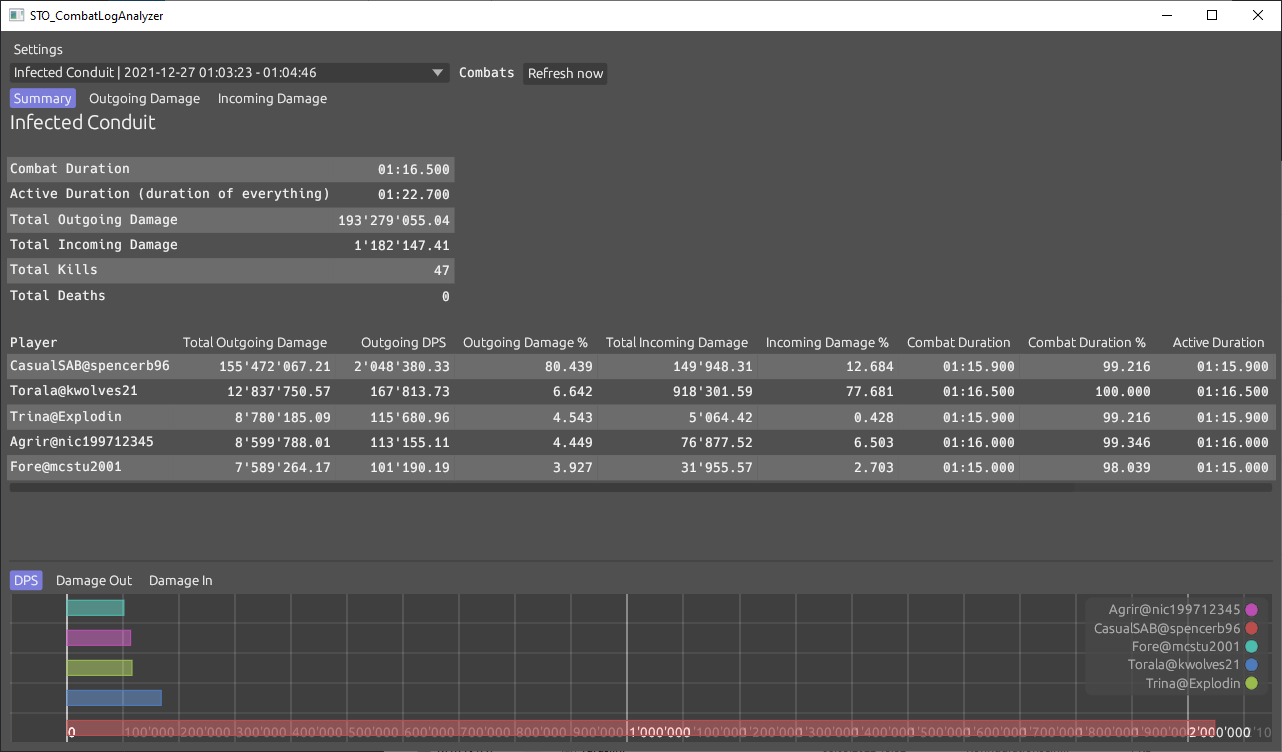
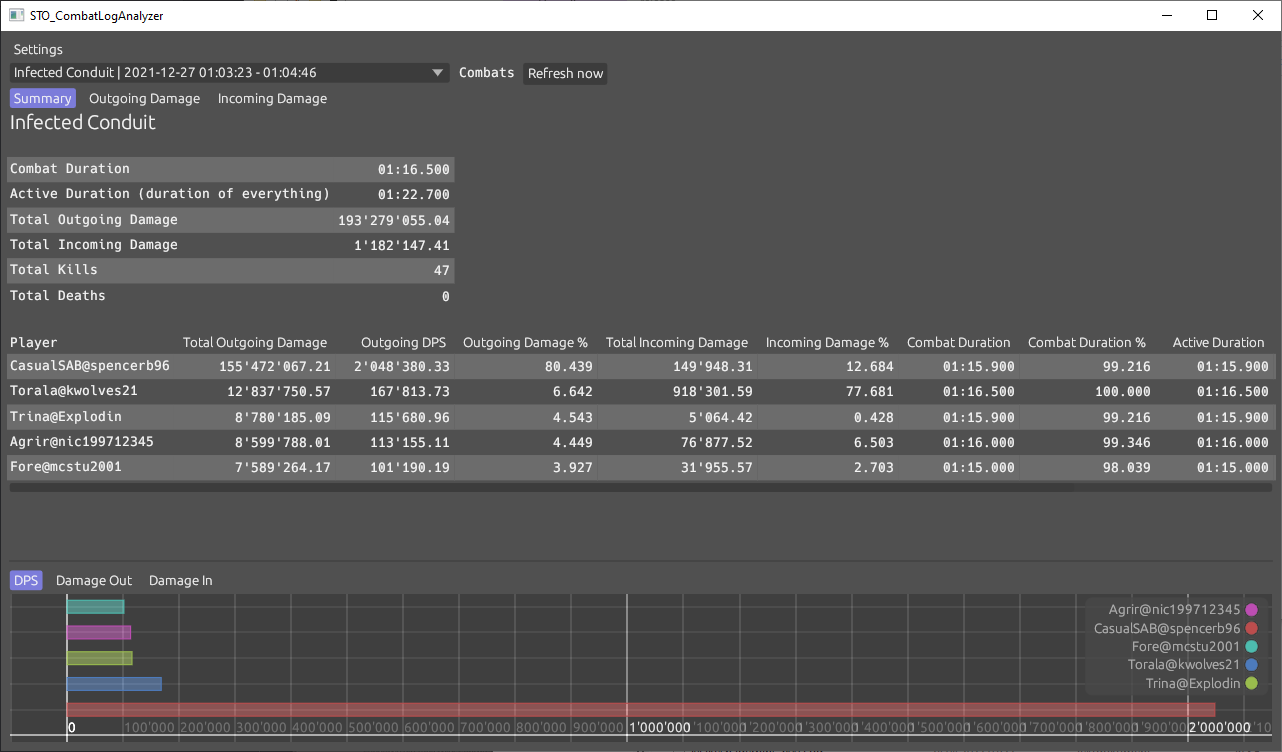
move the bars in the summary tab up a bit to make it less likely that it intersects with the axis numbers

Changed region(s): [[0.0312, 0.8258, 0.9984, 0.9787], [0.9984, 0.0, 1.0, 0.2141]]

diff --git a/src/app/main_tabs/diagrams/summary_chart.rs b/src/app/main_tabs/diagrams/summary_chart.rs
@@ -21,7 +21,7 @@ impl SummaryChart {
         players.sort_unstable_by(|p1, p2| p1.value.total_cmp(&p2.value).reverse());
 
         players.iter_mut().enumerate().for_each(|(i, p)| {
-            p.argument = i as f64 + 0.5;
+            p.argument = i as f64 + 1.0;
         });
 
         Self {
@@ -36,6 +36,7 @@ impl SummaryChart {
             .x_axis_formatter(format_axis)
             .label_formatter(format_label)
             .legend(Legend::default())
+            .include_y(0.0)
             .show(ui, |p| {
                 for player in self.players.iter() {
                     let chart = BarChart::new(vec![player.clone()])
